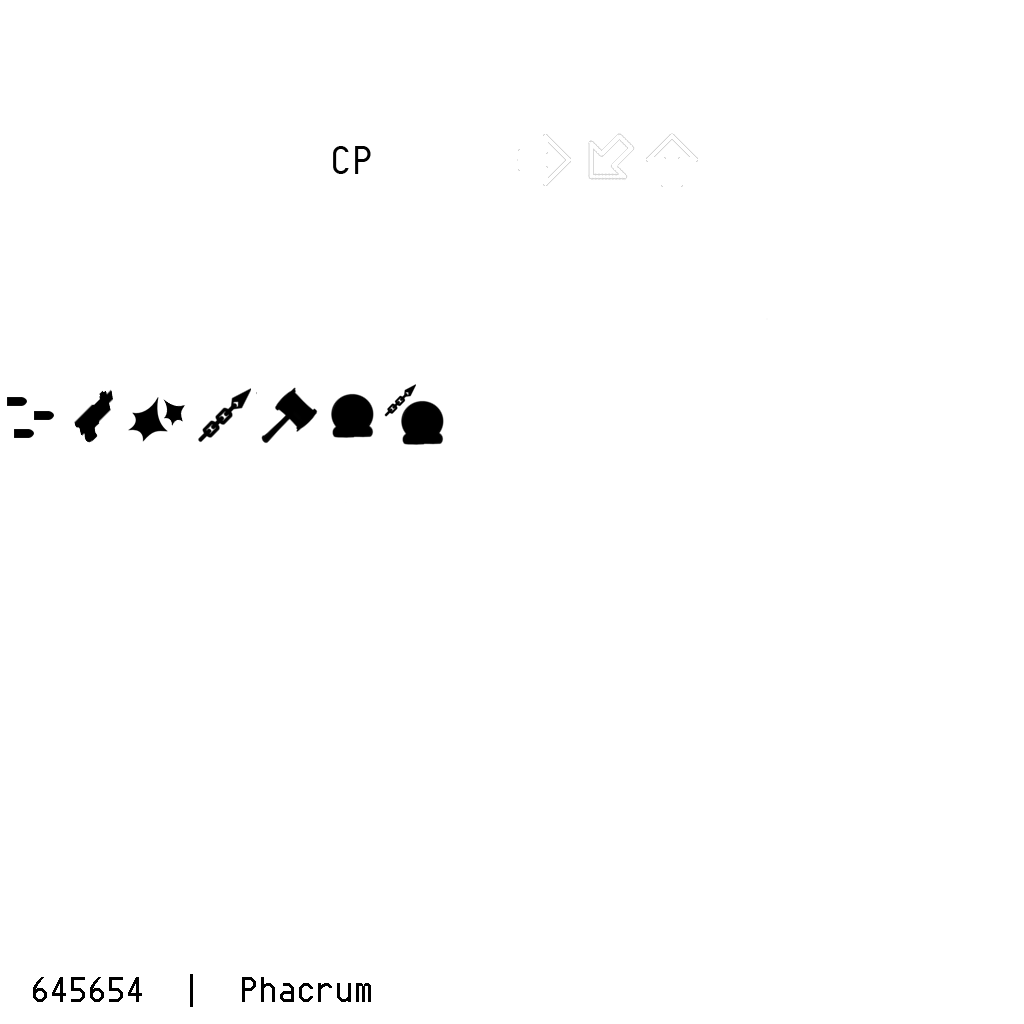
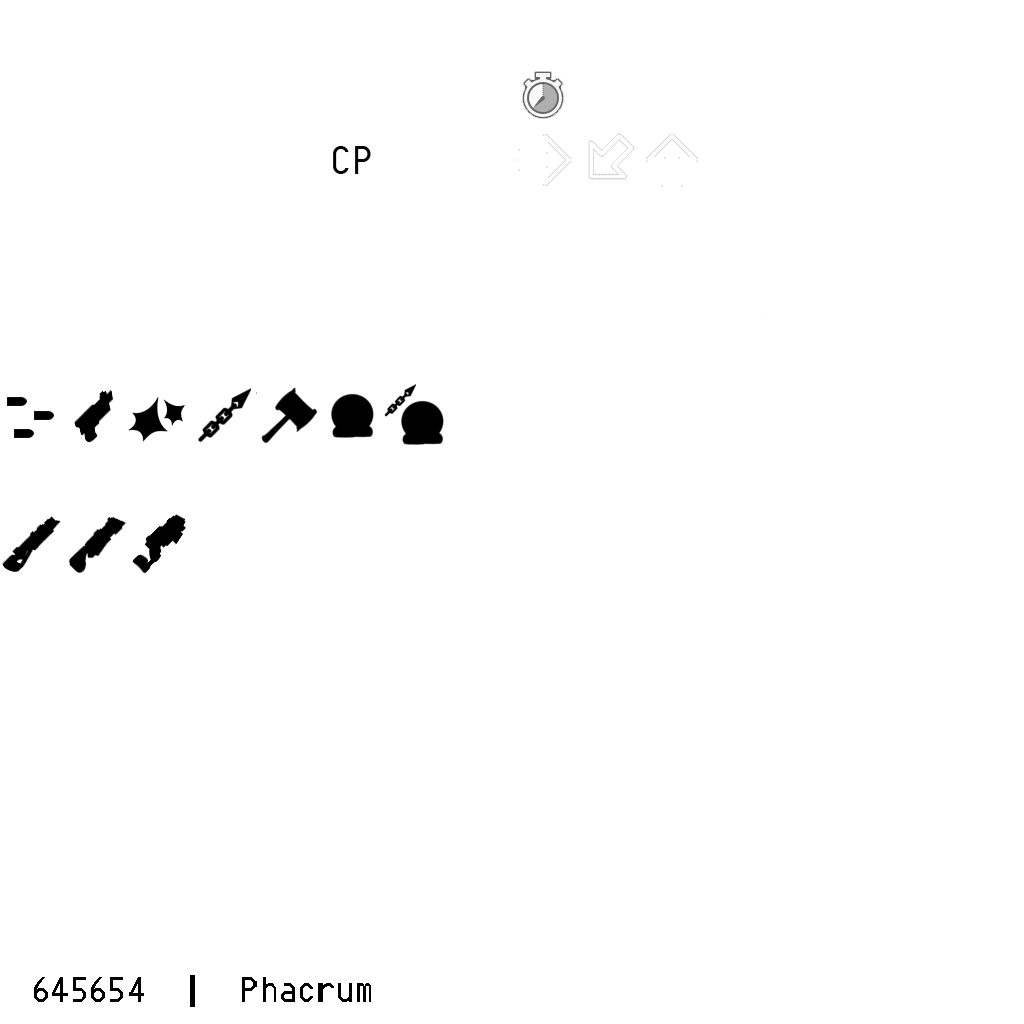
upd

diff --git a/www/index.html b/www/index.html
@@ -19,12 +19,12 @@ menu: |
 <div class="startvideo"><div class="video-container"><iframe class="ytplayer" src="http://www.youtube.com/embed/ApCo64AnIuI?autoplay=0&hd=1"></iframe></div></div>
 <div class="startimages"><img class="demo" alt="Demo" src="tower.png"/></li></div>
 <br/>
-<p class="download"><span class="big"><a href="#downloads">Download DDraceNetwork 3.4</a></span></p>
+<p class="download"><span class="big"><a href="#downloads">Download DDraceNetwork 3.5</a></span></p>
 </div>
 <div class="block">
 <h2 id="news">News</h2>
 <ul>
-  <li><strong>DDNet 3.4</strong>:<br/>
+  <li><strong>DDNet 3.5</strong>:<br/>
   <ul>
     <li>Feature: Dummy tee (thanks to //toast and Monsta)</li>
     <li>Feature: Show key presses (by unsigned char*)</li>
@@ -233,6 +233,11 @@ menu: |
 </ul>
 <h3>Mapping for DDraceNetwork</h3>
 <p>If you want to use special DDraceNetwork features, map using the <a href="ddnet.zip">DDraceNetwork Client</a>, otherwise the DDRace client also works.</p>
+<p>We have some nice tiles (ddnet-tiles) by 645654 &amp; phacrum. Here's how to use them:<br/>
+<img width="15%" class="demo" alt="Demo" src="ddnet-tiles-howto.png"/>
+<img width="15%" class="demo" alt="Demo" src="ddnet-tiles-bad.png"/>
+<img width="15%" class="demo" alt="Demo" src="ddnet-tiles-good.png"/>
+</p>
 <h3>Testing your Map</h3>
 <ol>
   <li>Download the <a href="ddnet.zip">DDraceNetwork Server</a> (and Client)</li>
@@ -332,6 +337,7 @@ menu: |
 <div class="block">
 <h2 id="downloads">Downloads</h2>
 <ul>
+  <li>2014-04-29: DDraceNetwork Client and Server 3.5: <a href="DDNet-3.5-win32.zip">Windows</a>, <a href="DDNet-3.5-linux_x86.tar.gz">Linux x86</a>, <a href="DDNet-3.5-linux_x86_64.tar.gz">Linux x86_64</a>, <a href="DDNet-3.5-osx.dmg">Mac OS X</a>
   <li>2014-04-28: DDraceNetwork Client and Server 3.4: <a href="DDNet-3.4-win32.zip">Windows</a>, <a href="DDNet-3.4-linux_x86.tar.gz">Linux x86</a>, <a href="DDNet-3.4-linux_x86_64.tar.gz">Linux x86_64</a>, <a href="DDNet-3.4-osx.dmg">Mac OS X</a>
   <li>2014-04-16: DDraceNetwork Client and Server 3.3: <a href="DDNet-3.3-win32.zip">Windows</a>, <a href="DDNet-3.3-linux_x86.tar.gz">Linux x86</a>, <a href="DDNet-3.3-linux_x86_64.tar.gz">Linux x86_64</a>, <a href="DDNet-3.3-osx.dmg">Mac OS X</a>
   <li>2014-04-14: DDraceNetwork Client and Server 3.2: <a href="DDNet-3.2-win32.zip">Windows</a>, <a href="DDNet-3.2-linux_x86.tar.gz">Linux x86</a>, <a href="DDNet-3.2-linux_x86_64.tar.gz">Linux x86_64</a>, <a href="DDNet-3.2-osx.dmg">Mac OS X</a>
@@ -342,7 +348,7 @@ menu: |
 <h3>Information</h3>
 <ul>
   <li><a href="settingscommands/">Settings &amp; Commands</a></li>
-  <li><a href="http://github.com/def-/teeworlds/compare/3.3...3.4">What's new</a></li>
+  <li><a href="http://github.com/def-/teeworlds/compare/3.3...3.5">What's new</a></li>
   <li><a href="http://github.com/def-/teeworlds">DDraceNetwork Git Repository</a></li>
 </ul>
 </div>
